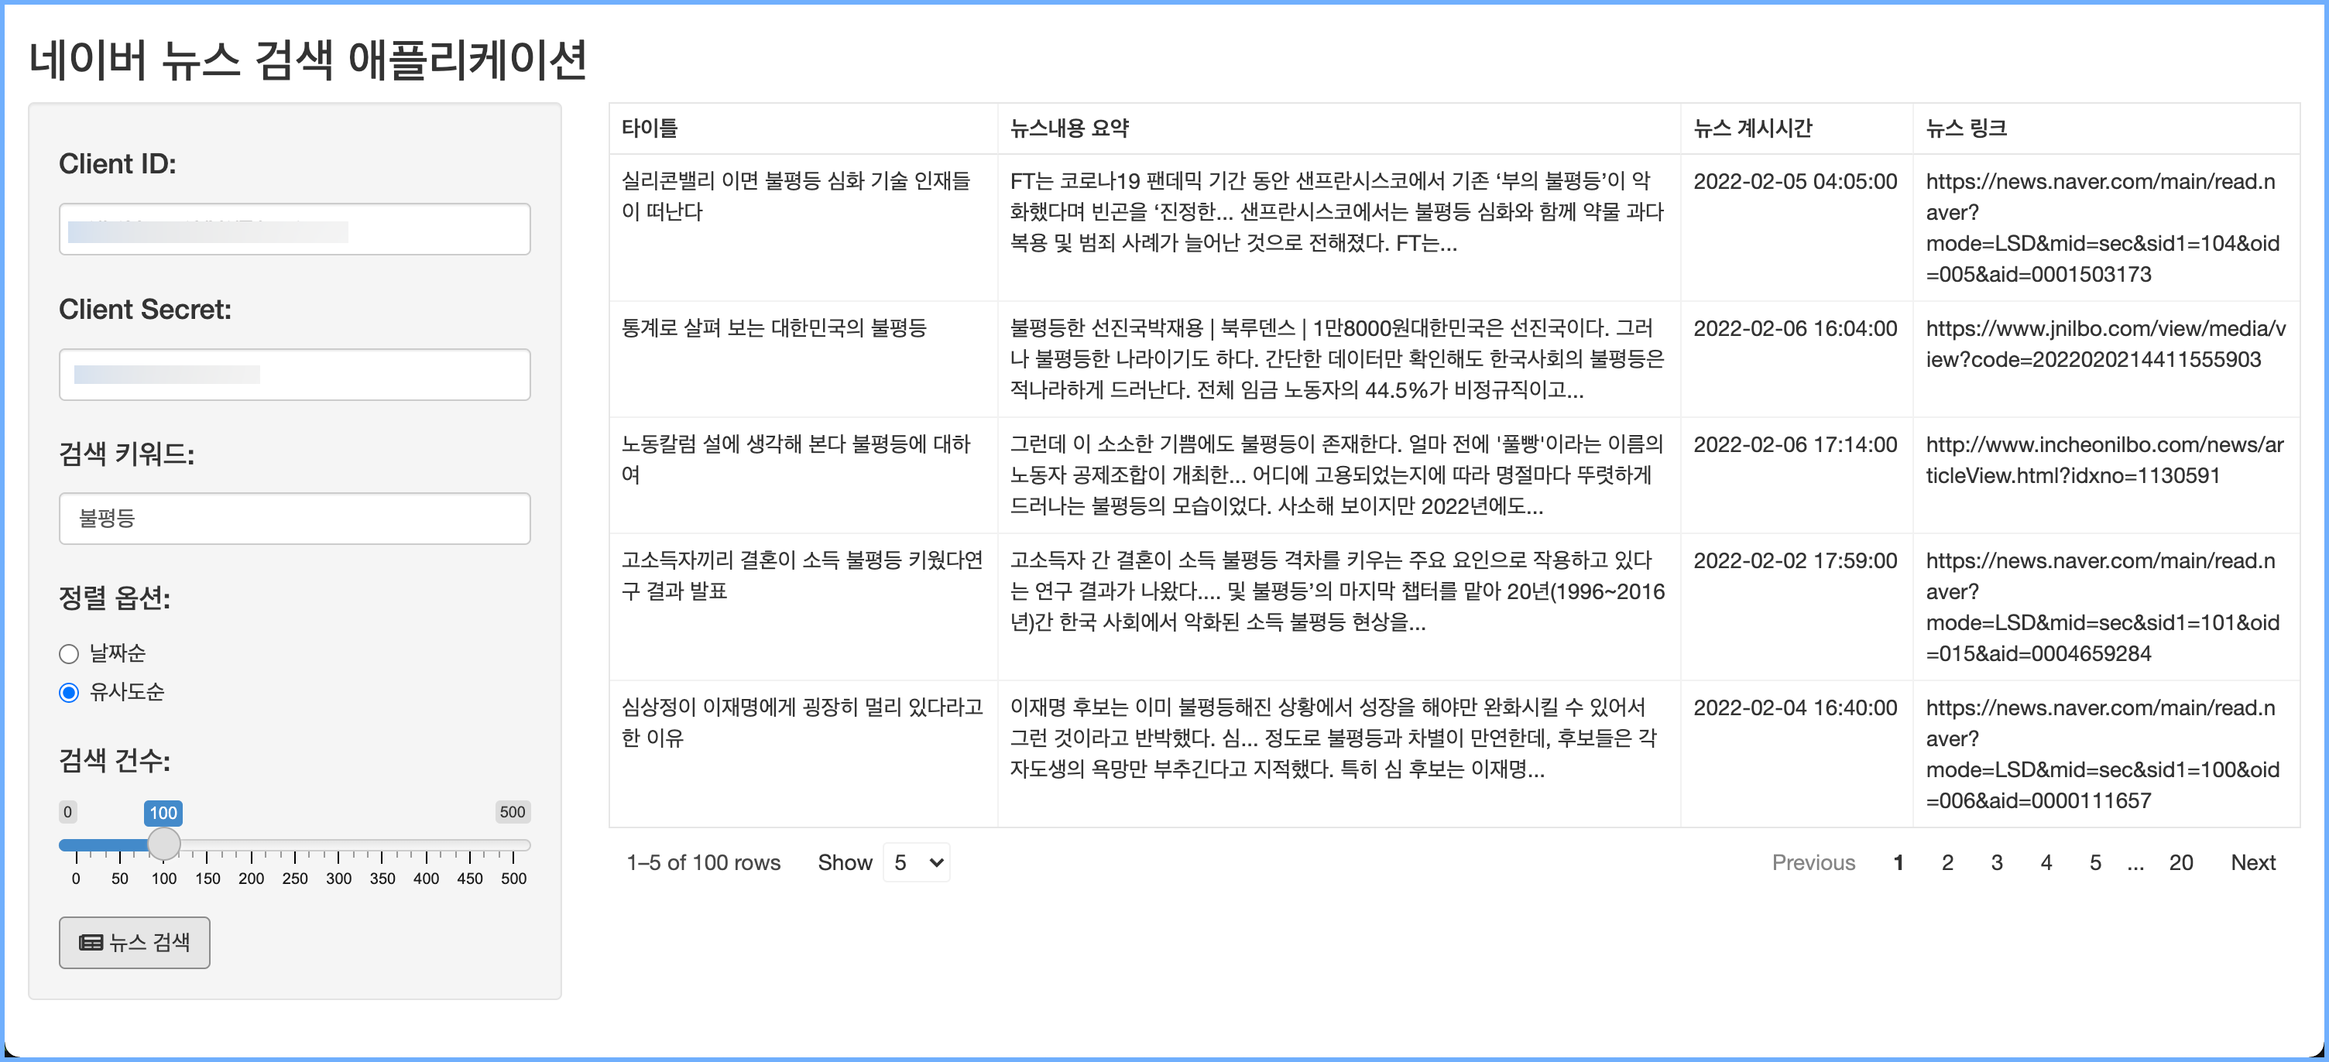
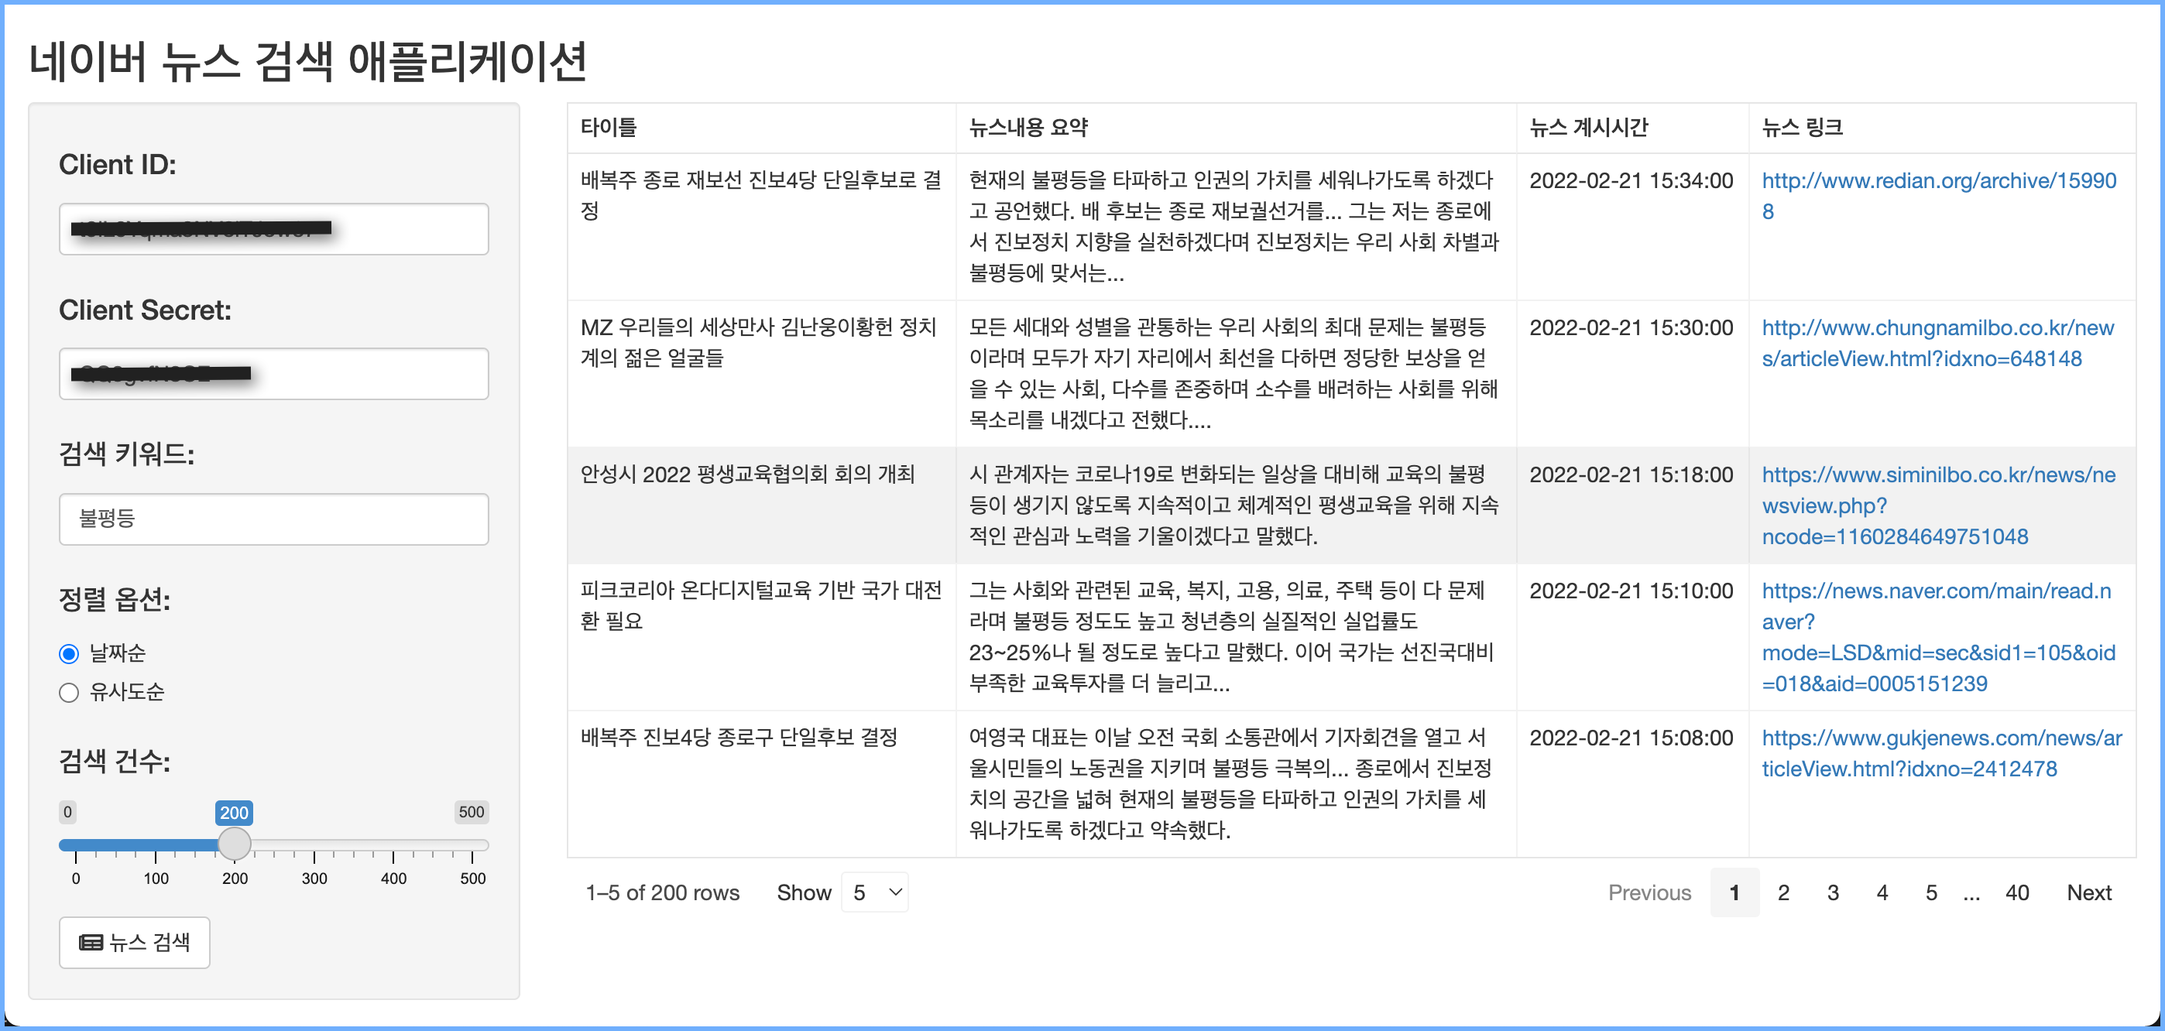
modify news_app

diff --git a/docs/news_app.html b/docs/news_app.html
@@ -2637,6 +2637,7 @@ docker Hands-on
 <li><a href="#애플리케이션-실행">애플리케이션 실행</a>
 <ul>
 <li><a href="#애플리케이션-실행-화면">애플리케이션 실행 화면</a></li>
+<li><a href="#뉴스링크-원문-조회하기">뉴스링크 원문 조회하기</a></li>
 </ul></li>
 </ul>
 </nav>
@@ -2758,7 +2759,7 @@ docker Hands-on
                          choices <span class='op'>=</span> <span class='fu'><a href='https://rdrr.io/r/base/list.html'>list</a></span><span class='op'>(</span><span class='st'>"날짜순"</span> <span class='op'>=</span> <span class='st'>"date"</span>, <span class='st'>"유사도순"</span> <span class='op'>=</span> <span class='st'>"sim"</span><span class='op'>)</span>, 
                          selected <span class='op'>=</span> <span class='st'>"date"</span><span class='op'>)</span>,           
             <span class='fu'><a href='https://rdrr.io/pkg/shiny/man/sliderInput.html'>sliderInput</a></span><span class='op'>(</span><span class='st'>"max_record"</span>, label <span class='op'>=</span> <span class='fu'><a href='https://rdrr.io/pkg/htmltools/man/builder.html'>h4</a></span><span class='op'>(</span><span class='st'>"검색 건수:"</span><span class='op'>)</span>, min <span class='op'>=</span> <span class='fl'>0</span>, 
-                        max <span class='op'>=</span> <span class='fl'>500</span>, value <span class='op'>=</span> <span class='fl'>100</span><span class='op'>)</span>,
+                        max <span class='op'>=</span> <span class='fl'>500</span>, value <span class='op'>=</span> <span class='fl'>100</span>, step <span class='op'>=</span> <span class='fl'>100</span><span class='op'>)</span>,
             <span class='fu'><a href='https://rdrr.io/pkg/shiny/man/actionButton.html'>actionButton</a></span><span class='op'>(</span><span class='st'>"search_keyword"</span>, label <span class='op'>=</span> <span class='st'>"뉴스 검색"</span>, 
                          icon <span class='op'>=</span> <span class='fu'><a href='https://rdrr.io/pkg/shiny/man/icon.html'>icon</a></span><span class='op'>(</span><span class='st'>"newspaper"</span><span class='op'>)</span><span class='op'>)</span>,
             width <span class='op'>=</span> <span class='fl'>3</span>
@@ -2779,18 +2780,69 @@ docker Hands-on
 <div class="sourceCode">
 <pre class="sourceCode r"><code class="sourceCode r"><span class='co'># Server Side</span>
 <span class='va'>server</span> <span class='op'>&lt;-</span> <span class='kw'>function</span><span class='op'>(</span><span class='va'>input</span>, <span class='va'>output</span><span class='op'>)</span> <span class='op'>{</span>
-    <span class='va'>output</span><span class='op'>$</span><span class='va'>news_list</span> <span class='op'>&lt;-</span> <span class='fu'>renderReactable</span><span class='op'>(</span><span class='op'>{</span>
-        <span class='co'># 뉴스 검색 리스트의 초기화 출력</span>
-        <span class='va'>init_data</span> <span class='op'>&lt;-</span> <span class='fu'><a href='https://rdrr.io/r/base/data.frame.html'>data.frame</a></span><span class='op'>(</span>
+    <span class='va'>newsList</span> <span class='op'>&lt;-</span> <span class='fu'><a href='https://rdrr.io/pkg/shiny/man/reactiveValues.html'>reactiveValues</a></span><span class='op'>(</span>
+        list <span class='op'>=</span> <span class='fu'><a href='https://rdrr.io/r/base/data.frame.html'>data.frame</a></span><span class='op'>(</span>
             title <span class='op'>=</span> <span class='fu'><a href='https://rdrr.io/r/base/character.html'>character</a></span><span class='op'>(</span><span class='fl'>0</span><span class='op'>)</span>,
             description <span class='op'>=</span> <span class='fu'><a href='https://rdrr.io/r/base/character.html'>character</a></span><span class='op'>(</span><span class='fl'>0</span><span class='op'>)</span>,
             publish_date <span class='op'>=</span> <span class='fu'><a href='https://rdrr.io/r/base/character.html'>character</a></span><span class='op'>(</span><span class='fl'>0</span><span class='op'>)</span>,
             link <span class='op'>=</span> <span class='fu'><a href='https://rdrr.io/r/base/character.html'>character</a></span><span class='op'>(</span><span class='fl'>0</span><span class='op'>)</span>,
             stringsAsFactors <span class='op'>=</span> <span class='cn'>FALSE</span>
-        <span class='op'>)</span>
-        
+        <span class='op'>)</span> <span class='op'>%&gt;%</span> 
+            <span class='fu'>reactable</span><span class='op'>(</span>
+                defaultColDef <span class='op'>=</span> <span class='fu'>colDef</span><span class='op'>(</span>
+                    align <span class='op'>=</span> <span class='st'>"left"</span>
+                <span class='op'>)</span>,
+                columns <span class='op'>=</span> <span class='fu'><a href='https://rdrr.io/r/base/list.html'>list</a></span><span class='op'>(</span>
+                    title <span class='op'>=</span> <span class='fu'>colDef</span><span class='op'>(</span>
+                        name <span class='op'>=</span> <span class='st'>"타이틀"</span>,
+                        width <span class='op'>=</span> <span class='fl'>250</span>,
+                    <span class='op'>)</span>,
+                    description <span class='op'>=</span> <span class='fu'>colDef</span><span class='op'>(</span>name <span class='op'>=</span> <span class='st'>"뉴스내용 요약"</span><span class='op'>)</span>,
+                    publish_date <span class='op'>=</span> <span class='fu'>colDef</span><span class='op'>(</span>
+                        name <span class='op'>=</span> <span class='st'>"뉴스 계시시간"</span>,
+                        width <span class='op'>=</span> <span class='fl'>150</span>,
+                    <span class='op'>)</span>,
+                    link <span class='op'>=</span> <span class='fu'>colDef</span><span class='op'>(</span>
+                        name <span class='op'>=</span> <span class='st'>"뉴스 링크"</span>,
+                        width <span class='op'>=</span> <span class='fl'>250</span>,
+                        html <span class='op'>=</span> <span class='cn'>TRUE</span>,
+                        cell <span class='op'>=</span> <span class='kw'>function</span><span class='op'>(</span><span class='va'>url</span><span class='op'>)</span> <span class='op'>{</span>
+                            <span class='fu'>htmltools</span><span class='fu'>::</span><span class='va'><a href='https://rdrr.io/pkg/htmltools/man/builder.html'>tags</a></span><span class='op'>$</span><span class='fu'>a</span><span class='op'>(</span>href <span class='op'>=</span> <span class='fu'><a href='https://rdrr.io/r/base/character.html'>as.character</a></span><span class='op'>(</span><span class='va'>url</span><span class='op'>)</span>, target <span class='op'>=</span> <span class='st'>"_blank"</span>, <span class='fu'><a href='https://rdrr.io/r/base/character.html'>as.character</a></span><span class='op'>(</span><span class='va'>url</span><span class='op'>)</span><span class='op'>)</span>
+                        <span class='op'>}</span>
+                    <span class='op'>)</span>    
+                <span class='op'>)</span>,
+                showPageSizeOptions <span class='op'>=</span> <span class='cn'>TRUE</span>,
+                pageSizeOptions <span class='op'>=</span> <span class='fu'><a href='https://rdrr.io/r/base/c.html'>c</a></span><span class='op'>(</span><span class='fl'>5</span>, <span class='fl'>10</span>, <span class='fl'>15</span><span class='op'>)</span>, 
+                defaultPageSize <span class='op'>=</span> <span class='fl'>5</span>,
+                bordered <span class='op'>=</span> <span class='cn'>TRUE</span>,
+                highlight <span class='op'>=</span> <span class='cn'>TRUE</span>
+            <span class='op'>)</span>    
+    <span class='op'>)</span>
+    
+    <span class='va'>output</span><span class='op'>$</span><span class='va'>news_list</span> <span class='op'>&lt;-</span> <span class='fu'>renderReactable</span><span class='op'>(</span><span class='op'>{</span>
+        <span class='va'>newsList</span><span class='op'>$</span><span class='va'>list</span>
+    <span class='op'>}</span><span class='op'>)</span>
+    
+    <span class='fu'><a href='https://rdrr.io/pkg/shiny/man/observeEvent.html'>observeEvent</a></span><span class='op'>(</span><span class='va'>input</span><span class='op'>$</span><span class='va'>search_keyword</span>, <span class='op'>{</span>
+        <span class='co'># 3개의 텍스트는 반드시 입력해야 함</span>
+        <span class='fu'><a href='https://rdrr.io/pkg/shiny/man/req.html'>req</a></span><span class='op'>(</span><span class='va'>input</span><span class='op'>$</span><span class='va'>keyword</span><span class='op'>)</span>
+        <span class='fu'><a href='https://rdrr.io/pkg/shiny/man/req.html'>req</a></span><span class='op'>(</span><span class='va'>input</span><span class='op'>$</span><span class='va'>client_id</span><span class='op'>)</span>
+        <span class='fu'><a href='https://rdrr.io/pkg/shiny/man/req.html'>req</a></span><span class='op'>(</span><span class='va'>input</span><span class='op'>$</span><span class='va'>client_secret</span><span class='op'>)</span>
+
+        <span class='va'>result</span> <span class='op'>&lt;-</span> <span class='fu'>koscrap</span><span class='fu'>::</span><span class='fu'><a href='https://rdrr.io/pkg/koscrap/man/search_naver.html'>search_naver</a></span><span class='op'>(</span>
+                query <span class='op'>=</span> <span class='va'>input</span><span class='op'>$</span><span class='va'>keyword</span>,
+                sort  <span class='op'>=</span> <span class='va'>input</span><span class='op'>$</span><span class='va'>sort</span>,
+                chunk <span class='op'>=</span> <span class='fu'><a href='https://rdrr.io/r/base/Extremes.html'>min</a></span><span class='op'>(</span><span class='va'>input</span><span class='op'>$</span><span class='va'>max_record</span>, <span class='fl'>100</span><span class='op'>)</span>,
+                max_record <span class='op'>=</span> <span class='va'>input</span><span class='op'>$</span><span class='va'>max_record</span>,
+                do_done <span class='op'>=</span> <span class='cn'>TRUE</span>,
+                client_id <span class='op'>=</span> <span class='va'>input</span><span class='op'>$</span><span class='va'>client_id</span>,
+                client_secret <span class='op'>=</span> <span class='va'>input</span><span class='op'>$</span><span class='va'>client_secret</span><span class='op'>)</span> <span class='op'>%&gt;%</span>
+                <span class='fu'>mutate</span><span class='op'>(</span>title <span class='op'>=</span> <span class='va'>title_text</span><span class='op'>)</span> <span class='op'>%&gt;%</span>
+                <span class='fu'>mutate</span><span class='op'>(</span>description <span class='op'>=</span> <span class='va'>description_text</span><span class='op'>)</span> <span class='op'>%&gt;%</span>
+                <span class='fu'>mutate</span><span class='op'>(</span>publish_date <span class='op'>=</span> <span class='fu'>stringr</span><span class='fu'>::</span><span class='fu'><a href='https://stringr.tidyverse.org/reference/str_remove.html'>str_remove_all</a></span><span class='op'>(</span><span class='va'>publish_date</span>,
+                                                              <span class='st'>"[[:alpha:]]"</span><span class='op'>)</span><span class='op'>)</span> <span class='op'>%&gt;%</span>
+                <span class='fu'>select</span><span class='op'>(</span><span class='va'>title</span>, <span class='va'>description</span>, <span class='va'>publish_date</span>, <span class='va'>link</span><span class='op'>)</span> <span class='op'>%&gt;%</span> 
         <span class='fu'>reactable</span><span class='op'>(</span>
-            <span class='va'>init_data</span>,
             defaultColDef <span class='op'>=</span> <span class='fu'>colDef</span><span class='op'>(</span>
                 align <span class='op'>=</span> <span class='st'>"left"</span>
             <span class='op'>)</span>,
@@ -2806,12 +2858,11 @@ docker Hands-on
                 <span class='op'>)</span>,
                 link <span class='op'>=</span> <span class='fu'>colDef</span><span class='op'>(</span>
                     name <span class='op'>=</span> <span class='st'>"뉴스 링크"</span>,
-                    width <span class='op'>=</span> <span class='fl'>250</span><span class='co'>#,</span>
-                    <span class='co'># cell = function(value) {</span>
-                    <span class='co'>#     print(value)</span>
-                    <span class='co'>#     cat(value)</span>
-                    <span class='co'>#     htmltools::tags$a(href = value, target = "_blank", value)</span>
-                    <span class='co'># }</span>
+                    width <span class='op'>=</span> <span class='fl'>250</span>,
+                    html <span class='op'>=</span> <span class='cn'>TRUE</span>,
+                    cell <span class='op'>=</span> <span class='kw'>function</span><span class='op'>(</span><span class='va'>url</span><span class='op'>)</span> <span class='op'>{</span>
+                        <span class='fu'>htmltools</span><span class='fu'>::</span><span class='va'><a href='https://rdrr.io/pkg/htmltools/man/builder.html'>tags</a></span><span class='op'>$</span><span class='fu'>a</span><span class='op'>(</span>href <span class='op'>=</span> <span class='fu'><a href='https://rdrr.io/r/base/character.html'>as.character</a></span><span class='op'>(</span><span class='va'>url</span><span class='op'>)</span>, target <span class='op'>=</span> <span class='st'>"_blank"</span>, <span class='fu'><a href='https://rdrr.io/r/base/character.html'>as.character</a></span><span class='op'>(</span><span class='va'>url</span><span class='op'>)</span><span class='op'>)</span>
+                    <span class='op'>}</span>
                 <span class='op'>)</span>    
             <span class='op'>)</span>,
             showPageSizeOptions <span class='op'>=</span> <span class='cn'>TRUE</span>,
@@ -2820,31 +2871,8 @@ docker Hands-on
             bordered <span class='op'>=</span> <span class='cn'>TRUE</span>,
             highlight <span class='op'>=</span> <span class='cn'>TRUE</span>
         <span class='op'>)</span>
-    <span class='op'>}</span><span class='op'>)</span>
-    
-    <span class='fu'><a href='https://rdrr.io/pkg/shiny/man/observeEvent.html'>observeEvent</a></span><span class='op'>(</span><span class='va'>input</span><span class='op'>$</span><span class='va'>search_keyword</span>, <span class='op'>{</span>
-        <span class='co'># 3개의 텍스트는 반드시 입력해야 함</span>
-        <span class='fu'><a href='https://rdrr.io/pkg/shiny/man/req.html'>req</a></span><span class='op'>(</span><span class='va'>input</span><span class='op'>$</span><span class='va'>keyword</span><span class='op'>)</span>
-        <span class='fu'><a href='https://rdrr.io/pkg/shiny/man/req.html'>req</a></span><span class='op'>(</span><span class='va'>input</span><span class='op'>$</span><span class='va'>client_id</span><span class='op'>)</span>
-        <span class='fu'><a href='https://rdrr.io/pkg/shiny/man/req.html'>req</a></span><span class='op'>(</span><span class='va'>input</span><span class='op'>$</span><span class='va'>client_secret</span><span class='op'>)</span>
         
-        <span class='co'># 네이버 오픈 API 호출</span>
-        <span class='va'>search_list</span> <span class='op'>&lt;-</span> <span class='fu'>koscrap</span><span class='fu'>::</span><span class='fu'><a href='https://rdrr.io/pkg/koscrap/man/search_naver.html'>search_naver</a></span><span class='op'>(</span>
-            query <span class='op'>=</span> <span class='va'>input</span><span class='op'>$</span><span class='va'>keyword</span>, 
-            sort  <span class='op'>=</span> <span class='va'>input</span><span class='op'>$</span><span class='va'>sort</span>,
-            chunk <span class='op'>=</span> <span class='fu'><a href='https://rdrr.io/r/base/Extremes.html'>min</a></span><span class='op'>(</span><span class='va'>input</span><span class='op'>$</span><span class='va'>max_record</span>, <span class='fl'>100</span><span class='op'>)</span>,
-            max_record <span class='op'>=</span> <span class='va'>input</span><span class='op'>$</span><span class='va'>max_record</span>,
-            do_done <span class='op'>=</span> <span class='cn'>TRUE</span>,
-            client_id <span class='op'>=</span> <span class='va'>input</span><span class='op'>$</span><span class='va'>client_id</span>, 
-            client_secret <span class='op'>=</span> <span class='va'>input</span><span class='op'>$</span><span class='va'>client_secret</span><span class='op'>)</span> <span class='op'>%&gt;%</span>
-            <span class='fu'><a href='https://dplyr.tidyverse.org/reference/mutate.html'>mutate</a></span><span class='op'>(</span>title <span class='op'>=</span> <span class='va'>title_text</span><span class='op'>)</span> <span class='op'>%&gt;%</span> 
-            <span class='fu'><a href='https://dplyr.tidyverse.org/reference/mutate.html'>mutate</a></span><span class='op'>(</span>description <span class='op'>=</span> <span class='va'>description_text</span><span class='op'>)</span> <span class='op'>%&gt;%</span> 
-            <span class='fu'><a href='https://dplyr.tidyverse.org/reference/mutate.html'>mutate</a></span><span class='op'>(</span>publish_date <span class='op'>=</span> <span class='fu'>stringr</span><span class='fu'>::</span><span class='fu'><a href='https://stringr.tidyverse.org/reference/str_remove.html'>str_remove_all</a></span><span class='op'>(</span><span class='va'>publish_date</span>, 
-                                                          <span class='st'>"[[:alpha:]]"</span><span class='op'>)</span><span class='op'>)</span> <span class='op'>%&gt;%</span> 
-            <span class='fu'><a href='https://dplyr.tidyverse.org/reference/select.html'>select</a></span><span class='op'>(</span><span class='va'>title</span>, <span class='va'>description</span>, <span class='va'>publish_date</span>, <span class='va'>link</span><span class='op'>)</span>
-            
-        <span class='fu'>updateReactable</span><span class='op'>(</span><span class='st'>"news_list"</span>, 
-                        data <span class='op'>=</span> <span class='va'>search_list</span><span class='op'>)</span>
+        <span class='va'>newsList</span><span class='op'>$</span><span class='va'>list</span> <span class='op'>&lt;-</span> <span class='va'>result</span>
     <span class='op'>}</span><span class='op'>)</span>
 <span class='op'>}</span>
 </code></pre>
@@ -2875,6 +2903,11 @@ docker Hands-on
 <p>애플리케이션을 실행하면 다음과 같의 화면을 얻을 수 있습니다.</p>
 <figure>
 <img src="img/news_app.png" alt="네이버 뉴스 검색 애플리케이션" /><figcaption aria-hidden="true">네이버 뉴스 검색 애플리케이션</figcaption>
+</figure>
+<h2 id="뉴스링크-원문-조회하기">뉴스링크 원문 조회하기</h2>
+<p>네번째 컬럼인 뉴스링크는 뉴스 원문의 URL 정보입니다. 이 URL을 클릭하면, 뉴스의 원문을 읽을 수 있습니다. 다음은 특정 페이지의 뉴스를 링크를 클릭하여 열린 웹 페이지입니다. 네이버 뉴스 검색 애플리케이션에서 <strong>불평등</strong>이라는 키워드로 검색하였기 때문에, <strong>불평등</strong>이란 단어를 검색하였더니 1개 단어가 매칭되었습니다.</p>
+<figure>
+<img src="img/news_link.png" alt="네이버 뉴스 링크의 뉴스 원문" /><figcaption aria-hidden="true">네이버 뉴스 링크의 뉴스 원문</figcaption>
 </figure>
 <div class="sourceCode" id="cb1"><pre class="sourceCode r distill-force-highlighting-css"><code class="sourceCode r"></code></pre></div>
 <!--radix_placeholder_article_footer-->
